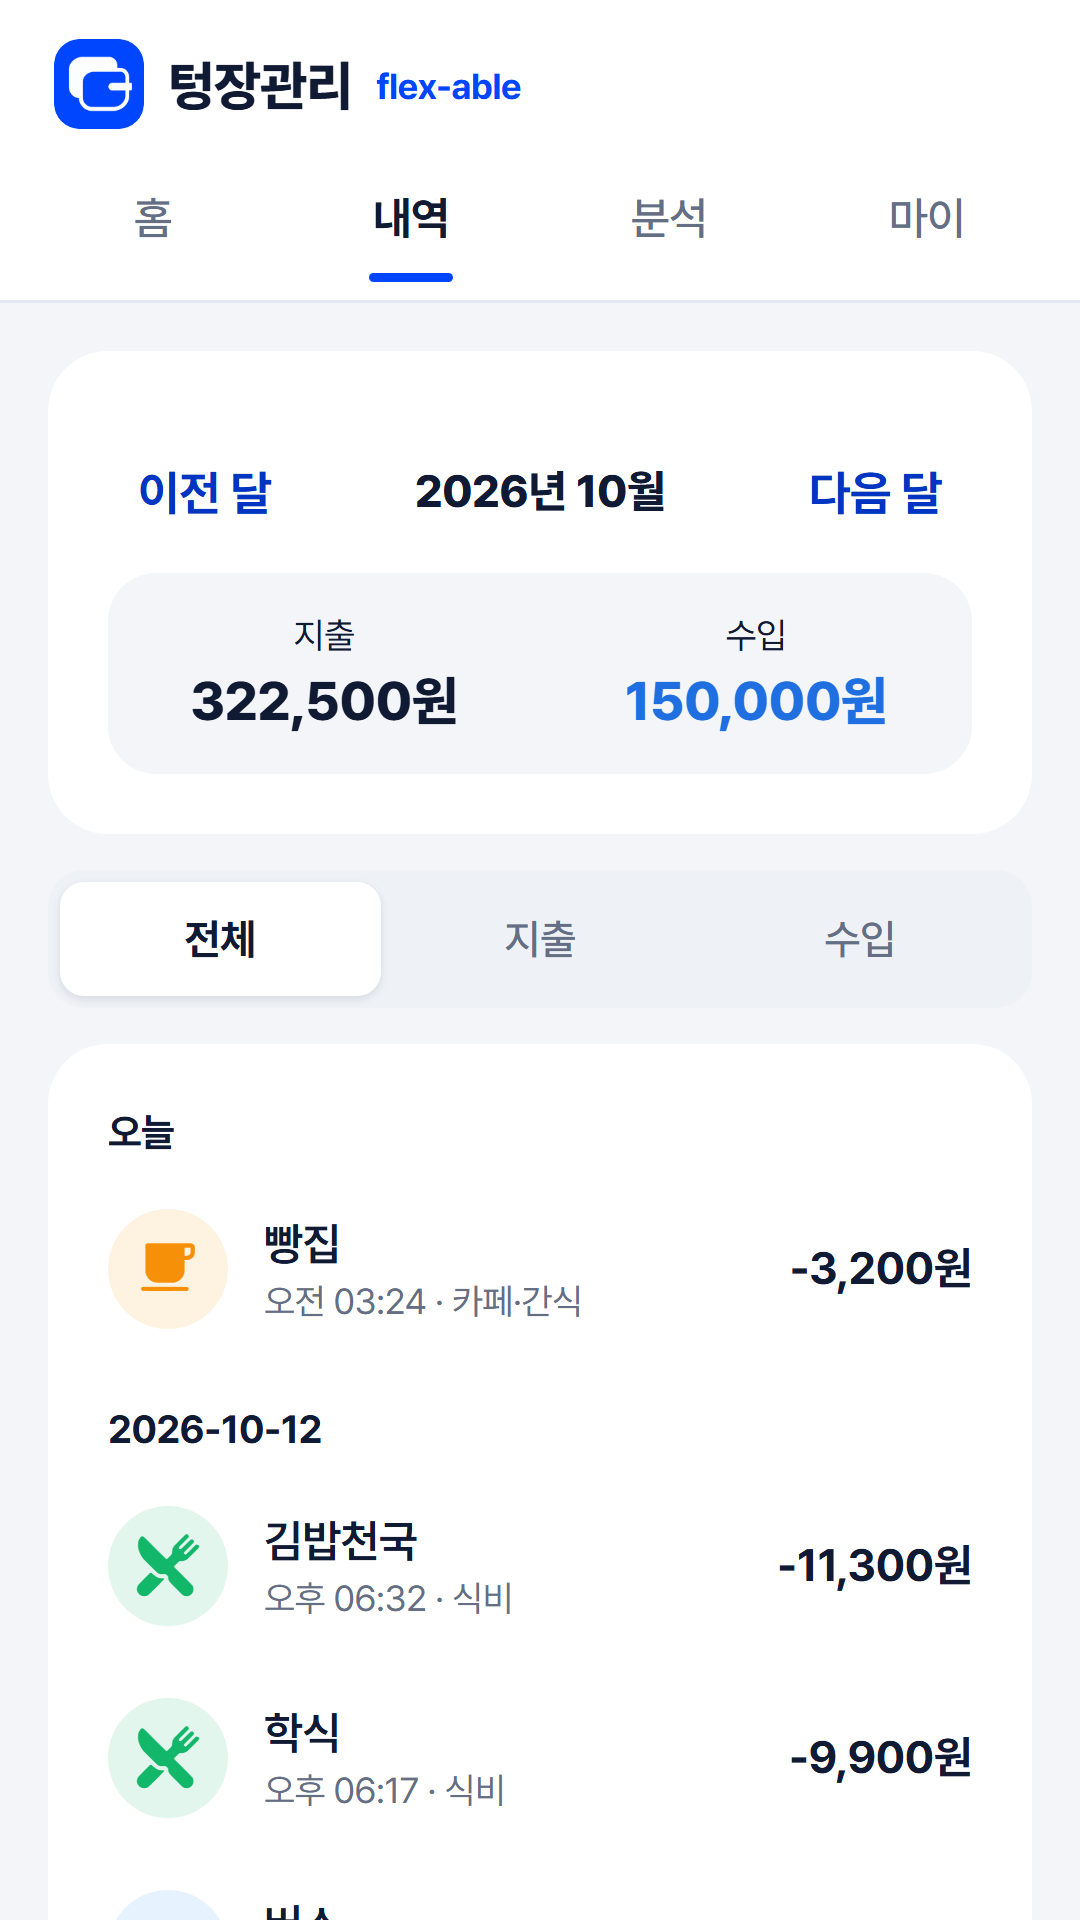
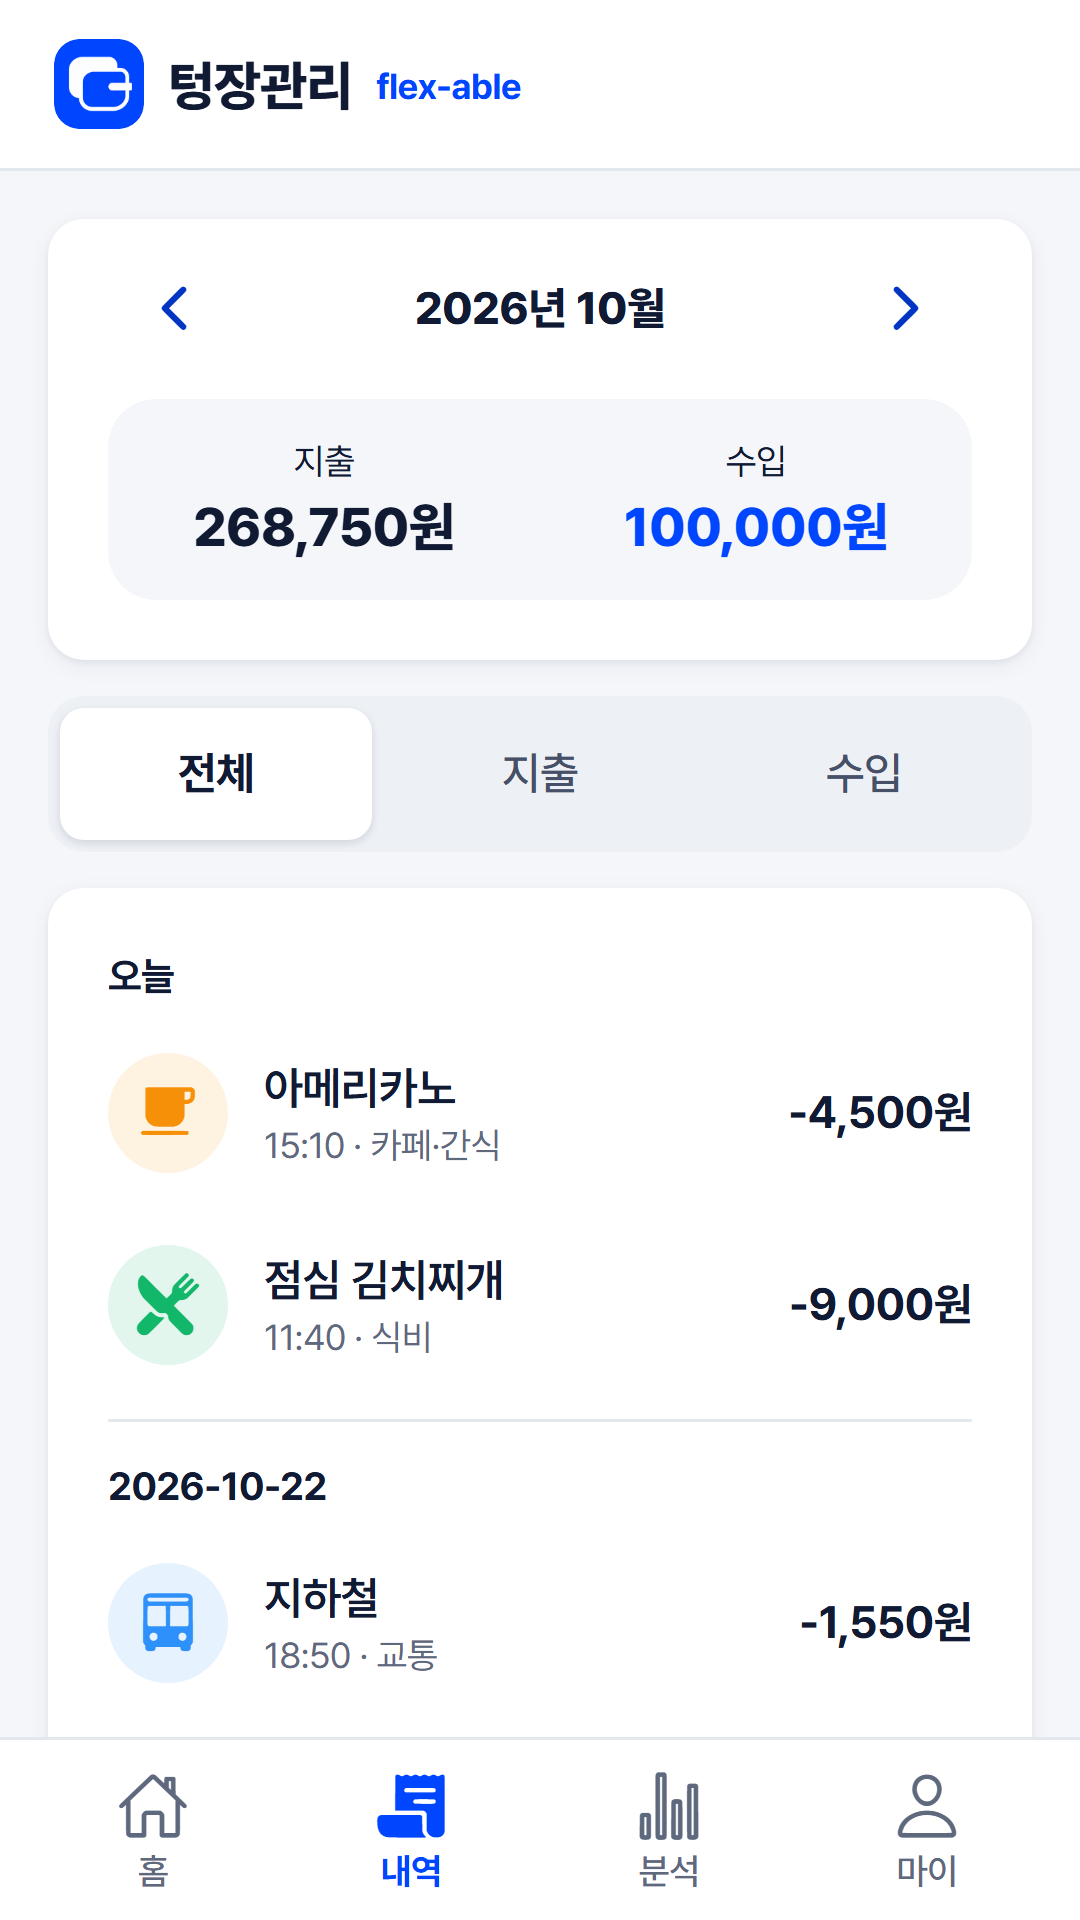
docs: Play 스토어 스크린샷을 앱 1.4.0 기준 8장으로 교체
홈·내역·분석·거래 기록·마이를 새 디자인으로 다시 찍고 상점, 시드머니 반영 창, 코스튬 적용 홈을 추가했다.

diff --git a/docs/play-store/README.md b/docs/play-store/README.md
@@ -78,9 +78,9 @@
 |---|---|---|
 | 앱 아이콘 | 512×512 PNG(32비트) | `icon-512.png` (앱 `assets/icon.png`에서 생성) |
 | 그래픽 이미지 | 1024×500 PNG/JPG | `feature-graphic-1024x500.png` |
-| 휴대전화 스크린샷 | 2~8장, 9:16 (1080×1920) | `screenshots/02-home.png` ~ `06-my.png` 5장. 심사용 계정, 운영 서버, 360×640@3x로 캡처 |
+| 휴대전화 스크린샷 | 2~8장, 9:16 (1080×1920) | `screenshots/02-home.png` ~ `09-character-home.png` 8장(홈·내역·분석·거래 기록·마이·상점·시드머니 반영 창·코스튬 적용 홈). 10-23 앱 1.4.0 기준으로 다시 찍었다. 로컬 백엔드(H2)에 예시 데이터를 넣고 웹 빌드를 360×640@3x로 캡처 |
 
-스크린샷은 **실제 서비스 화면**으로, 심사용 계정(§4)의 예시 데이터로 찍는다. 웹 OG 이미지(`frontend/public/og.png`)는 이 폴더의 `feature-graphic-1024x500.png`와 같은 앱 소개 이미지다(2026-10-20 시연 AI 분석 이미지 교체). 소개 이미지를 실제 화면 스크린샷 대신 제출하지 않는다.
+스크린샷은 **실제 서비스 화면**으로, 심사용 계정(§4)과 같은 모양의 예시 데이터로 찍는다. 다시 찍을 때 주의: 운영 서버에 붙이지 않는다(로컬 웹 빌드는 `--clear`로 만들고 `dist`에 `duckdns`가 없는지 확인). 시드머니 반영 창(`08-seed-money.png`)은 서버가 '반영 대기'를 하루 예산 기록이 쌓인 뒤에만 주기 때문에, 그 한 번의 `GET /budget/seed-money` 응답만 `docs/API.md`의 모양대로 채워 넣어 찍었다. Windows 헤드리스 브라우저에는 코인 이모지(🪙) 글리프가 없어 Noto Color Emoji 글꼴로 그렸다(실기기와 같은 모양). 웹 OG 이미지(`frontend/public/og.png`)는 이 폴더의 `feature-graphic-1024x500.png`와 같은 앱 소개 이미지다(2026-10-20 시연 AI 분석 이미지 교체). 소개 이미지를 실제 화면 스크린샷 대신 제출하지 않는다.
 
 ## 3. 앱 콘텐츠
 

diff --git a/docs/HANDOFF.md b/docs/HANDOFF.md
@@ -186,7 +186,7 @@
 3. [x] Play Console 스토어 등록정보 → 앱 아이콘을 `docs/play-store/icon-512.png`(새 광부 고양이, 32비트 PNG)로 교체
 4. [x] 실기기 확인(Play에서 versionCode 7로 업데이트한 앱): 홈 화면 아이콘이 원형·둥근 사각형 런처에서 잘리지 않는지, 테마 아이콘, 동전 4단계, 게이지 퍼센트 표시, 거래 완료 알림이 상단에 뜨는지, 다음 원격 업데이트 때 업데이트 배너가 뜨고 "지금 적용"이 동작하는지, 거래 수정·수입 저장 후 빈 화면이 다시 나오지 않는지(PR #23·#25, `docs/bug-transaction-edit-blank-screen.md`) — 10-23 사용자 실기기 확인 완료
 5. [ ] 팀원 2차 피드백 수집(노션)
-6. [ ] `docs/play-store/` 스크린샷 교체 검토(예전 홈 화면·아이콘 기준)
+6. [x] `docs/play-store/` 스크린샷을 1.4.0 기준 8장으로 교체(10-23, `play-store/README.md` §2 그래픽). 남은 것: Play Console 스토어 등록정보에 올리기(사람)
 7. [ ] 운영 DB에 남은 테스트성 계정 3개(`test1@`·`test@`·`baeh@` 로 시작) 정리 여부 결정. 목록은 §5의 조회로 확인. `play.review@flexable.app`은 지우지 않는다
 8. [x] production AAB를 Play Console 내부/비공개 테스트 트랙에 업로드(10-14, versionCode 5)
 
